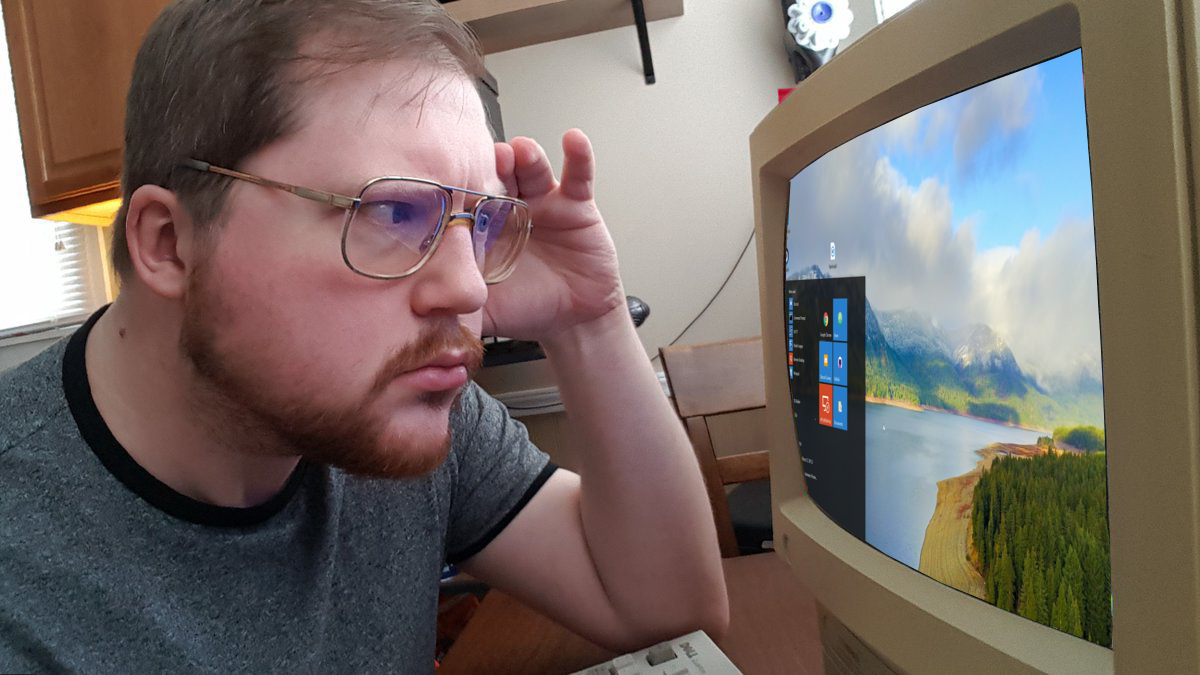
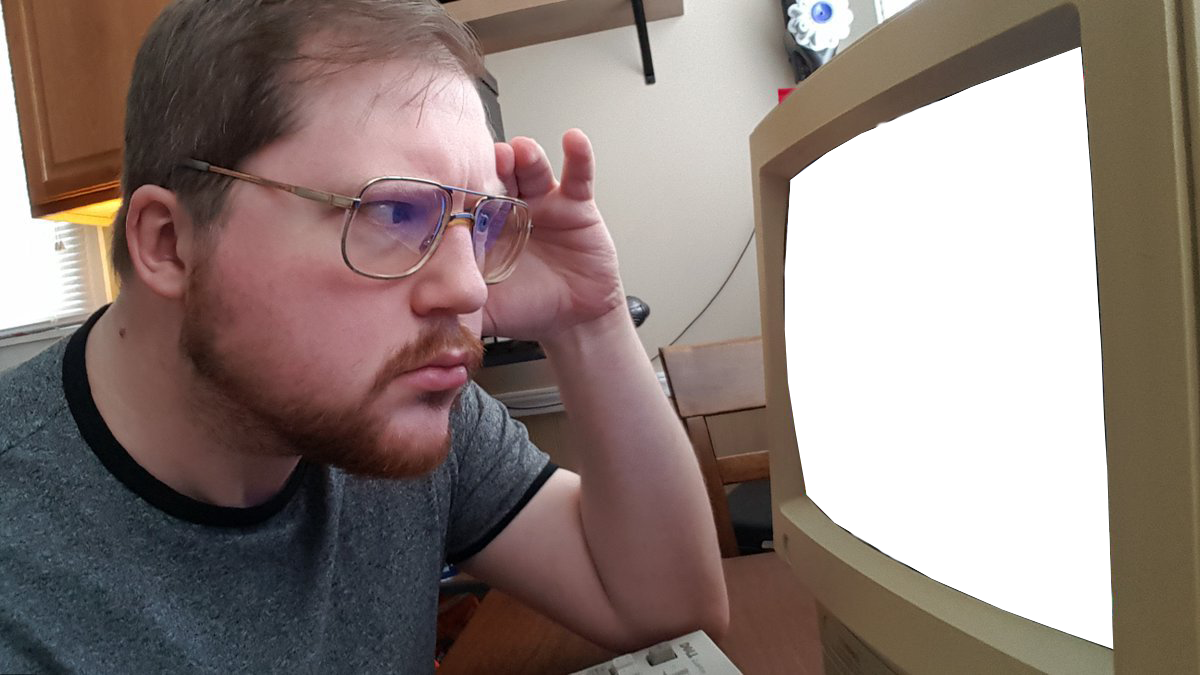
Simplified clint

Changed region(s): [[0.6475, 0.0622, 0.925, 0.9644]]

diff --git a/app/commands/clint.js b/app/commands/clint.js
@@ -38,7 +38,7 @@ module.exports = {
 		
 		msg.channel.startTyping();
 		
-		let ContinueFunc = function() {
+		const ContinueFunc = function() {
 			if (msg.checkAbort()) return;
 			fs.stat(fPathProcessed, function(err, stat) {
 				if (msg.checkAbort()) return;
@@ -46,13 +46,29 @@ module.exports = {
 					msg.channel.stopTyping();
 					msg.reply(fPathProcessedURL);
 				} else {
-					let magik = spawn('convert', ['-alpha', 'on', '(', '-size', '1024x768', 'xc:black', '-gravity', 'center', '(', fPath, '-resize', '1024x768>', '-resize', '1024x768<', ')', '-compose', 'srcover', '-composite', '(', '-size', '1200x800!', 'xc:none', ')', '-gravity', 'northwest', '+swap', '-composite', '-mattecolor', 'none', '-virtual-pixel', 'none', '-distort', 'perspective', '0,0,788,181 1024,0,1080,49 0,768,809,493 1024,768,1109,649', '-distort', 'shepards', '798,350 780,350 750,181 755,181 750,170 730,170 750,200 740,200 875,134 875,120 850,134 850,120 889,134 889,120 909,548 909,580 1095,290 1105,290 1095,320 1105,320 1095,340 1105,340 1095,362 1105,362', ')', './resource/files/clint.png', '+swap', '-gravity', 'northwest', '-compose', 'srcover', '-composite', fPathProcessed]);
+					let magik = spawn('convert', [
+						'-alpha', 'on',
+						'(',
+							'-size', '1324x1068', 'xc:black',
+							'-gravity', 'center',
+							'(', fPath, '-scale', '1024x768', ')',
+							'-compose', 'srcover', '-composite',
+							'(', '-size', '1200x800!', 'xc:black', ')',
+							'-gravity', 'center', '+swap', '-composite',
+							'-mattecolor', 'none', '-virtual-pixel', 'none',
+							'-distort', 'perspective', '86,16,786,177 1111,16,1090,30 86,784,790,503 1111,784,1140,690',
+						')',
+						'./resource/files/clint.png', '-gravity', 'northwest',
+						'-compose', 'srcover', '-composite',
+						'-crop', '1200x675', '+delete', fPathProcessed
+					]);
 					
 					Util.Redirect(magik);
 					
 					magik.on('close', function(code) {
 						if (msg.checkAbort()) return;
-						if (code == 0) {
+						
+						if (code === 0) {
 							msg.channel.stopTyping();
 							msg.reply(fPathProcessedURL);
 						} else {
@@ -62,7 +78,7 @@ module.exports = {
 					});
 				}
 			});
-		}
+		};
 		
 		CommandHelper.loadImage(url, function(newPath) {
 			fPath = newPath;
@@ -72,4 +88,4 @@ module.exports = {
 			msg.reply('Failed to download image. "HTTP Status Code: ' + (result.code || 'socket hangs up or connection timeout') + '"');
 		});
 	}
-}
+};
